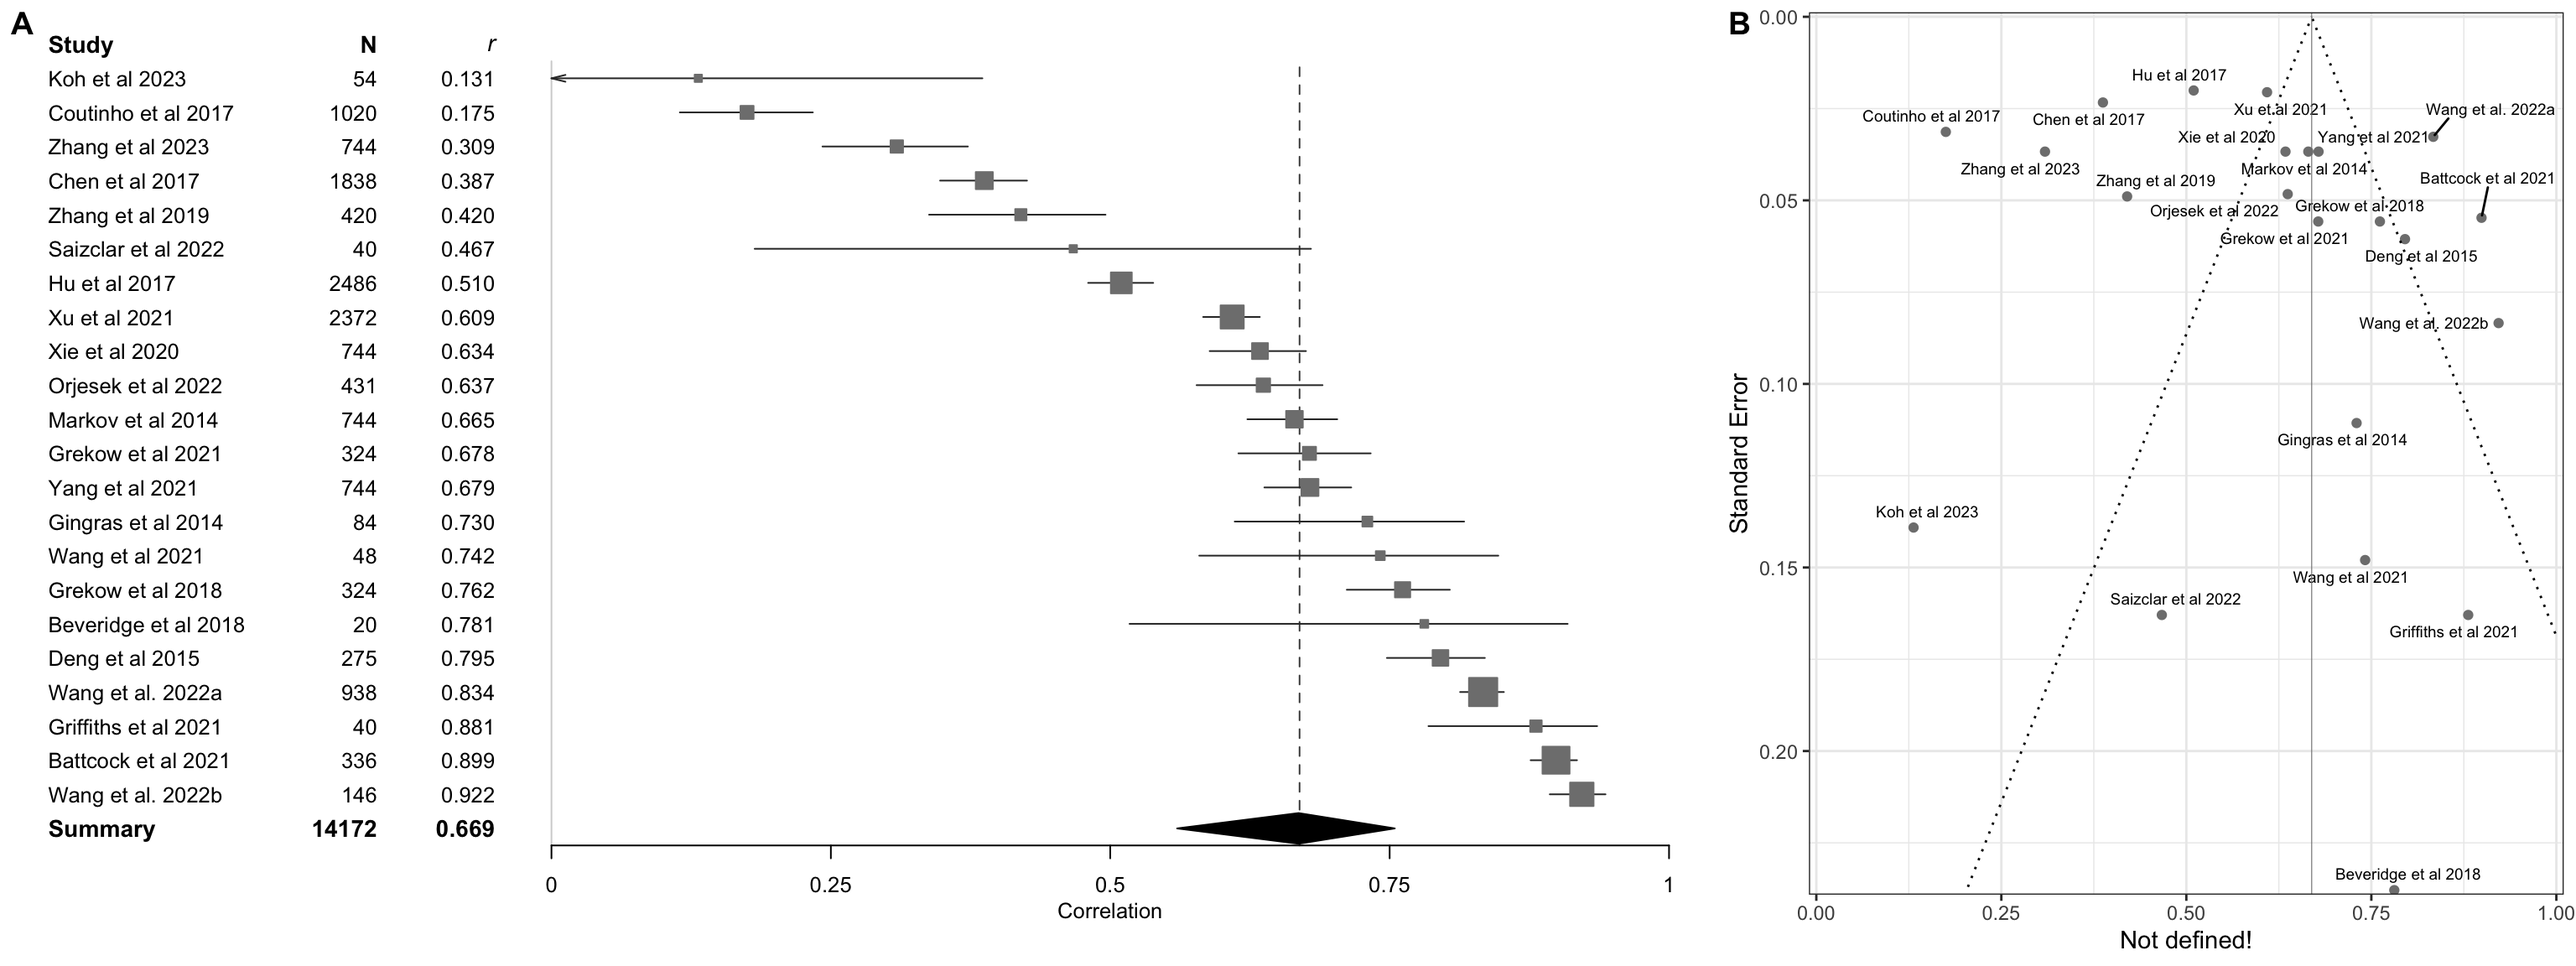
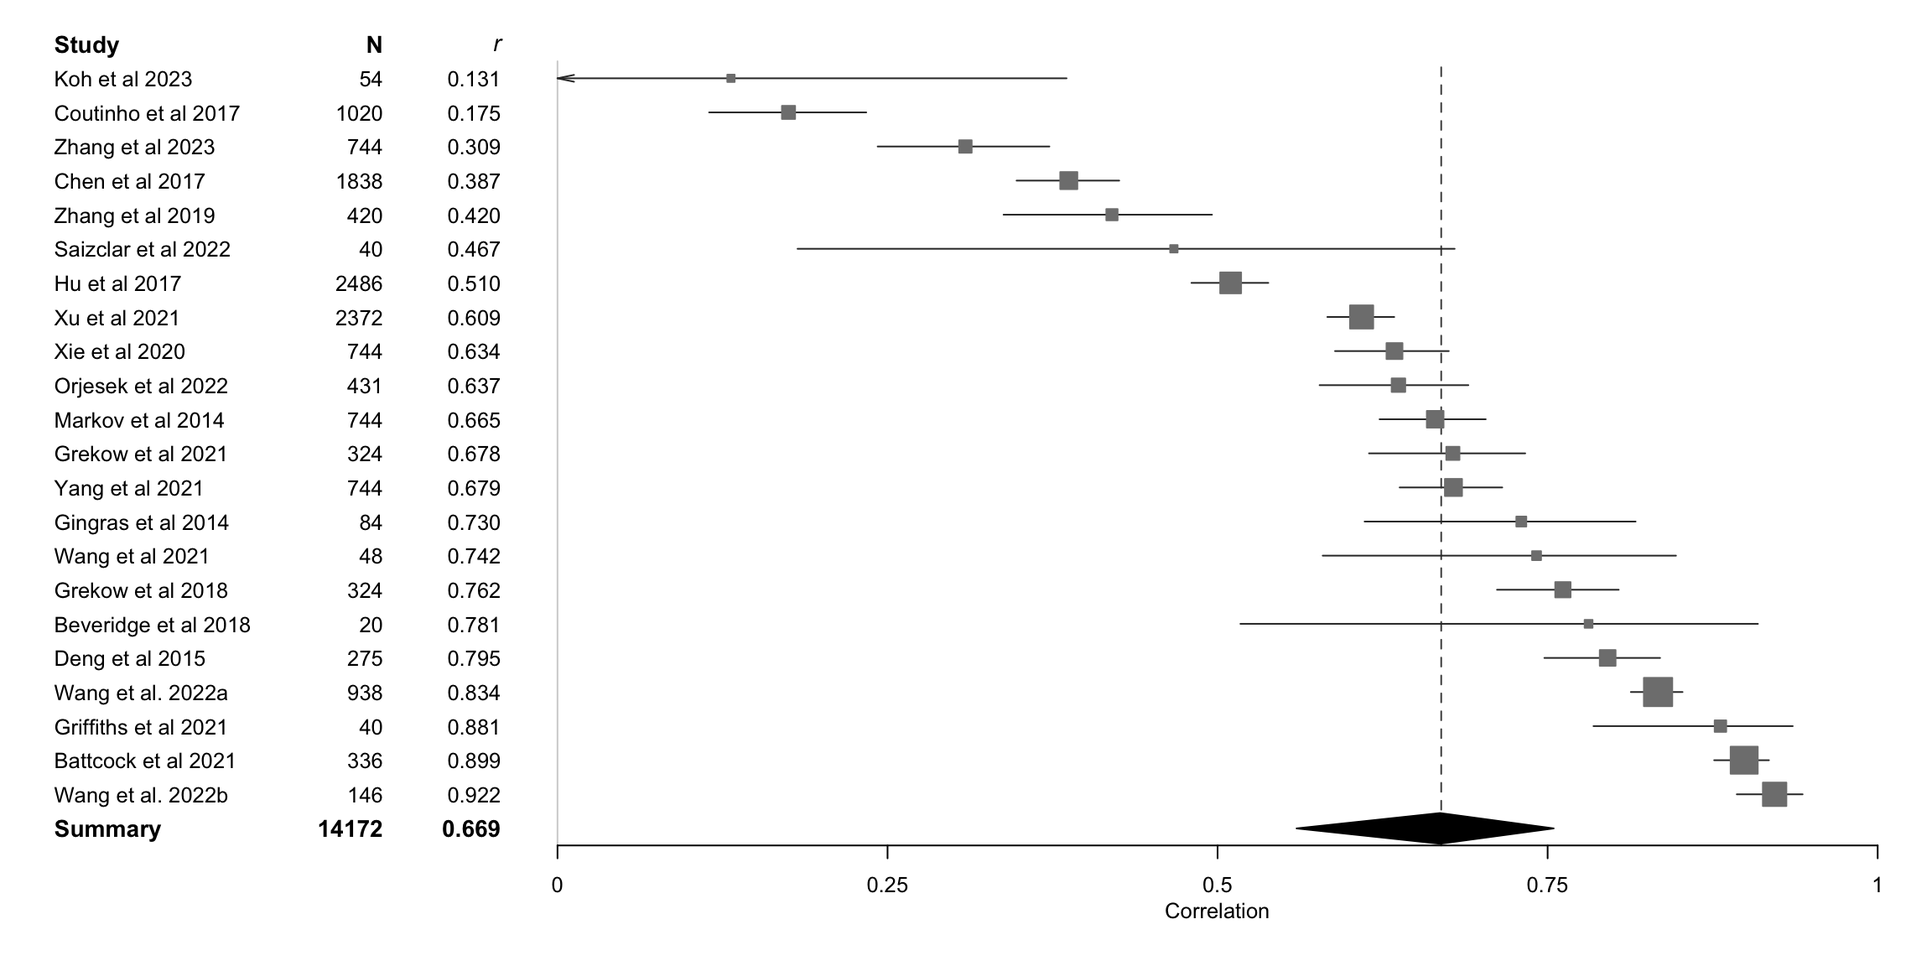
live editing the MS

diff --git a/docs/manuscript/manuscript.html b/docs/manuscript/manuscript.html
@@ -382,7 +382,7 @@ window.Quarto = {
 </section>
 <section id="study-encoding" class="level2">
 <h2 class="anchored" data-anchor-id="study-encoding">Study Encoding</h2>
-<p>To capture key details of each study, we added additional fields to BibTeX entries for each study. Fields included information about the genre/type of stimuli employed, along with their duration and number; the number of analyzed features; and the model type – Neural Nets (NN), Support Vector Machines (SVM), Linear Methods (LM), Tree-based Methods (TM), KS, Add. and KNN Methods (KM) – validation procedure and output measures. Additionally, we included study results using executable <em>R</em> code containing custom functions for meta-analysis. For complete details about our encoding procedure, see <code>studies/extraction_details.qmd</code> .</p>
+<p>To capture key details of each study, we added extra fields to BibTeX entries for each study. Fields included information about the genre/type of stimuli employed, along with their duration and number; the number of analyzed features; and the model type – Neural Nets (NN), Support Vector Machines (SVM), Linear Methods (LM), Tree-based Methods (TM), KS, Add. and KNN Methods (KM) – validation procedure and output measures. Additionally, we included study results using executable <em>R</em> code containing custom functions for meta-analysis. For complete details about our encoding procedure, see <code>studies/extraction_details.qmd</code> .</p>
 </section>
 </section>
 <section id="results" class="level1">
@@ -461,7 +461,7 @@ window.Quarto = {
 </tr>
 </tbody>
 </table>
-<p>Although the total number of studies meeting the criteria described in the previous section is modest (34 in total), they encompass a large array of models (290 in total) with a relatively even distribution among the three most popular techniques: Neural Nets, SVMs, and Linear Methods. The number of features and stimuli within these studies varies significantly, ranging from as few as three features <span class="citation" data-cites="battcock2021in">(<a href="#ref-battcock2021in" role="doc-biblioref">Battcock &amp; Schutz, 2021</a>)</span> to a maximum of almost 14,500 features <span class="citation" data-cites="zhang2023mo">(<a href="#ref-zhang2023mo" role="doc-biblioref">M. Zhang et al., 2023</a>)</span>. The median number of features differs between regression (653) and classification (98) studies, primarily reflecting the nature of the datasets used in each approach. The number of stimuli is typically around 300-400 (with a median of 324 for regression and 300 for classification), though there is substantial variation, with the extremes from 20 stimuli in <span class="citation" data-cites="beveridge2018po">Beveridge &amp; Knox (<a href="#ref-beveridge2018po" role="doc-biblioref">2018</a>)</span> to 5192 stimuli in <span class="citation" data-cites="alvarez2023ri">Álvarez et al. (<a href="#ref-alvarez2023ri" role="doc-biblioref">2023</a>)</span>. There are also additional dimensions to consider, such as the type of cross-validation used, the music genres analyzed (whether a single genre, multiple genres, or a mix), the type of journal in which the studies were published, and the extraction tool used to extract features. However, these variables do not lend themselves to a simple summary, so we will revisit them during the interpretation and discussion stages.</p>
+<p>Although the total number of studies meeting the criteria described in the previous section is modest (34 in total), they encompass a large array of models (290 in total) with a relatively even distribution among the three most popular techniques: Neural Nets (85 models in total), SVMs (88), and Linear Methods (81). Tree-based models are less frequently used (30 in total), and there is a small number (6) of other model techniques such as kernel smoothing or K-nearest neighbors (KNN) techniques used in the models. However, these techniques will not be visible in the breakdown of the results as these models were not among the strongest models per study (see reporting principles in the results). The number of features and stimuli within these studies varies significantly, ranging from as few as three features <span class="citation" data-cites="battcock2021in">(<a href="#ref-battcock2021in" role="doc-biblioref">Battcock &amp; Schutz, 2021</a>)</span> to a maximum of almost 14,500 features <span class="citation" data-cites="zhang2023mo">(<a href="#ref-zhang2023mo" role="doc-biblioref">M. Zhang et al., 2023</a>)</span>. The median number of features differs between regression (653) and classification (98) studies, primarily reflecting the nature of the datasets used in each approach. The number of stimuli is typically around 300-400 (with a median of 324 for regression and 300 for classification), though there is substantial variation, with the extremes from 20 stimuli in <span class="citation" data-cites="beveridge2018po">Beveridge &amp; Knox (<a href="#ref-beveridge2018po" role="doc-biblioref">2018</a>)</span> to 5192 stimuli in <span class="citation" data-cites="alvarez2023ri">Álvarez et al. (<a href="#ref-alvarez2023ri" role="doc-biblioref">2023</a>)</span>. There are also additional dimensions to consider, such as the type of cross-validation used, the music genres analyzed (whether a single genre, multiple genres, or a mix), the type of journal in which the studies were published, and the extraction tool used to extract features. However, these variables do not lend themselves to a simple summary, so we will revisit them during the interpretation and discussion stages.</p>
 <p>We first report regression studies that predict valence and arousal.</p>
 <section id="prediction-success-for-affect-dimensions" class="level2">
 <h2 class="anchored" data-anchor-id="prediction-success-for-affect-dimensions">Prediction success for affect dimensions</h2>
@@ -605,8 +605,8 @@ window.Quarto = {
 <div class="cell-output-display">
 <div class="quarto-figure quarto-figure-center">
 <figure class="figure">
-<p><img src="manuscript_files/figure-html/fig2-1.png" class="img-fluid figure-img" width="1536"></p>
-<figcaption>Forest (A) and funnel (B) plots of the best valence models from all MER studies.</figcaption>
+<p><img src="manuscript_files/figure-html/fig2-1.png" class="img-fluid figure-img" width="1152"></p>
+<figcaption>Forest plot of the best valence models from all MER studies.</figcaption>
 </figure>
 </div>
 </div>
@@ -766,8 +766,8 @@ K= 10 studies.-->
 <div class="cell-output-display">
 <div class="quarto-figure quarto-figure-center">
 <figure class="figure">
-<p><img src="manuscript_files/figure-html/fig3-1.png" class="img-fluid figure-img" width="1536"></p>
-<figcaption>Forest (A) and funnel (B) plots of the best arousal models from all MER studies.</figcaption>
+<p><img src="manuscript_files/figure-html/fig3-1.png" class="img-fluid figure-img" width="1152"></p>
+<figcaption>Forest plot of the best arousal models from all MER studies.</figcaption>
 </figure>
 </div>
 </div>
@@ -784,8 +784,8 @@ K= 10 studies.-->
 <div class="cell-output-display">
 <div class="quarto-figure quarto-figure-center">
 <figure class="figure">
-<p><img src="manuscript_files/figure-html/fig4-1.png" class="img-fluid figure-img" width="1536"></p>
-<figcaption>Forest (A) and funnel (B) plots of the best classification models from all MER studies.</figcaption>
+<p><img src="manuscript_files/figure-html/fig4-1.png" class="img-fluid figure-img" width="1152"></p>
+<figcaption>Forest plot of the best classification models from all MER studies.</figcaption>
 </figure>
 </div>
 </div>
@@ -920,8 +920,7 @@ K= 10 studies.-->
 </section>
 <section id="reporting-splits-2" class="level3">
 <h3 class="anchored" data-anchor-id="reporting-splits-2">Reporting splits</h3>
-<p>The number of features (as classified into under 30, between 30 and 300, and above 300 features) analyzed does not significantly impact results (<em>Q</em>(2) = 3.91, <em>p</em> = 0.1419), though <span class="math inline">\(MCC\)</span> shows differences on averages based on the number of features (&lt; 30 F: <span class="math inline">\(MCC\)</span> = 0.9293; 30-300 F: <span class="math inline">\(MCC\)</span> = 0.8458; &gt;300 F: <span class="math inline">\(MCC\)</span> = 0.7754). Conversely, model classes differ significantly (<em>Q</em>(3) = 4.22, <em>p</em> = 0.239). Specifically, neural networks outperform all other model types (<span class="math inline">\(MCC\)</span> = 0.9307), followed by SVMs (<span class="math inline">\(MCC\)</span> = 0.870) and tree-based methods (<span class="math inline">\(MCC\)</span> = 0.854), then linear methods (<span class="math inline">\(MCC\)</span> = 0.728). Studies did not differ based on whether stimuli comprised one or multiple genres (<em>Q</em>(1) = 0.12, <em>p</em> = 0.7324), or whether studies employed binary or multi-class models (<em>Q</em>(1) = 0.03, <em>p</em> = 0.8694).</p>
-<p>NOTE. Model classes do not seem to differ significantly!?</p>
+<p>The number of features (as classified into under 30, between 30 and 300, and above 300 features) analyzed does not significantly impact results (<em>Q</em>(2) = 3.91, <em>p</em> = 0.1419), despite <span class="math inline">\(MCC\)</span>s showing average differences according to the number of features (&lt; 30 F: <span class="math inline">\(MCC\)</span> = 0.9293; 30-300 F: <span class="math inline">\(MCC\)</span> = 0.8458; &gt;300 F: <span class="math inline">\(MCC\)</span> = 0.7754). Similarly, the class of model did not differ significantly (<em>Q</em>(3) = 4.22, <em>p</em> = 0.239) despite neural networks attaining highest average performance (<span class="math inline">\(MCC\)</span> = 0.9307), followed by SVMs (<span class="math inline">\(MCC\)</span> = 0.870) and tree-based methods (<span class="math inline">\(MCC\)</span> = 0.854), then linear methods (<span class="math inline">\(MCC\)</span> = 0.728). Finally, neither single- vs.&nbsp;multigenre studies (<em>Q</em>(1) = 0.12, <em>p</em> = 0.7324), nor binary vs.&nbsp;multi-class models (<em>Q</em>(1) = 0.03, <em>p</em> = 0.8694) differed significantly.</p>
 <!--
 Notes to results: In the pre-registration, we promised the following:
 - groupings based on genre, model complexity (high, medium, low), model validation (exists or not)
@@ -949,7 +948,7 @@ Notes to results: In the pre-registration, we promised the following:
 <!-- ### Reporting and transparency -->
 <p>Future reports should contain viable information about the data, models, and success metrics. The modelling process should include a description of cross-validation, feature extraction technique, feature reduction (if used), and actual accuracy measures. We would recommend future studies to use Matthews correlation coefficient (<span class="math inline">\(MCC\)</span>) for classification studies as currently there are numerous metrics (<em>F<sub>1</sub></em>, precision, recall, balanced accuracy, etc.), which do not operate in the same range. The situation is regression studies tends to be less volatile, but model accuracy may be reported with error measures (Mean Squared Error, Root Mean Squared Error, or Mean Absolute Error, or <span class="math inline">\(MSE\)</span>, <span class="math inline">\(RMSE\)</span>, <span class="math inline">\(MAE\)</span>), which cannot be converted to relative measure such as <span class="math inline">\(R^2\)</span> without knowing the variance of the data.</p>
 <p>It would be beneficial to share models and features transparently. If a study relies on published datasets, as most do, sharing the actual model (as code/notebooks) and features would allow for a more direct comparison of model techniques for the same dataset. Also, not all datasets are shared <span class="citation" data-cites="akiki2021 santana2020">(<a href="#ref-akiki2021" role="doc-biblioref">Akiki &amp; Burghardt, 2021</a>; <a href="#ref-santana2020" role="doc-biblioref">Santana et al., 2020</a>)</span>, or at least the sharing is only done partially. The copyright restrictions may limit the sharing of some datasets, but at least features and examples should be available.</p>
-<!-- ### Feature definition -->
+<!-- ### Feature definition/validations -->
 <p>One of the crucial aspects of modeling is the choice of features, their quantity, and their validation. In the present materials, we observe a continuum defined by two extremes: one approach relies on domain knowledge, starting with a limited number of features that are assumed to be perceptually relevant, while the other employs a large number of features, allowing the model to determine which are most relevant for prediction. The former is typically favored in music psychology studies, whereas the latter is more common in engineering and machine learning fields. Our results suggest that the domain knowledge-driven approach leads to the highest model accuracy across all studies and techniques. However, as our sample includes studies from the past 10 years, it is important to note that deep learning models have only gained prominence in this field since 2021. Consequently, it is too early to generalize that models based on domain knowledge, with a limited number of features and classical techniques, will continue to outperform machine learning approaches that utilize a large (300+) feature set. We believe that the relatively modest size of datasets available so far has prevented deep learning approaches from fully leveraging their potential to learn generalizable patterns in the data.</p>
 <!-- ### Dataset scale and content -->
 <p>We also note that the majority of the datasets used in MER studies are relatively small, but comparable to datasets for modeling facial expressions (median N=502, <span class="citation" data-cites="krumhuber2017">Krumhuber et al. (<a href="#ref-krumhuber2017" role="doc-biblioref">2017</a>)</span>) and speech expressions (median of 1287, <span class="citation" data-cites="hashem2023">Hashem et al. (<a href="#ref-hashem2023" role="doc-biblioref">2023</a>)</span>). However, annotated datasets for visual scenes and objects tend to be much larger, often exceeding 100,000 annotated examples <span class="citation" data-cites="deng2009imagenet krishna2017visual">(<a href="#ref-deng2009imagenet" role="doc-biblioref">Deng et al., 2009</a>; <a href="#ref-krishna2017visual" role="doc-biblioref">Krishna et al., 2017</a>)</span>. Datasets of these magnitudes seem to be required for appropriate utilisation of deep learning algorithms, which may explain the modest results observed in the music emotion recognition studies.</p>
